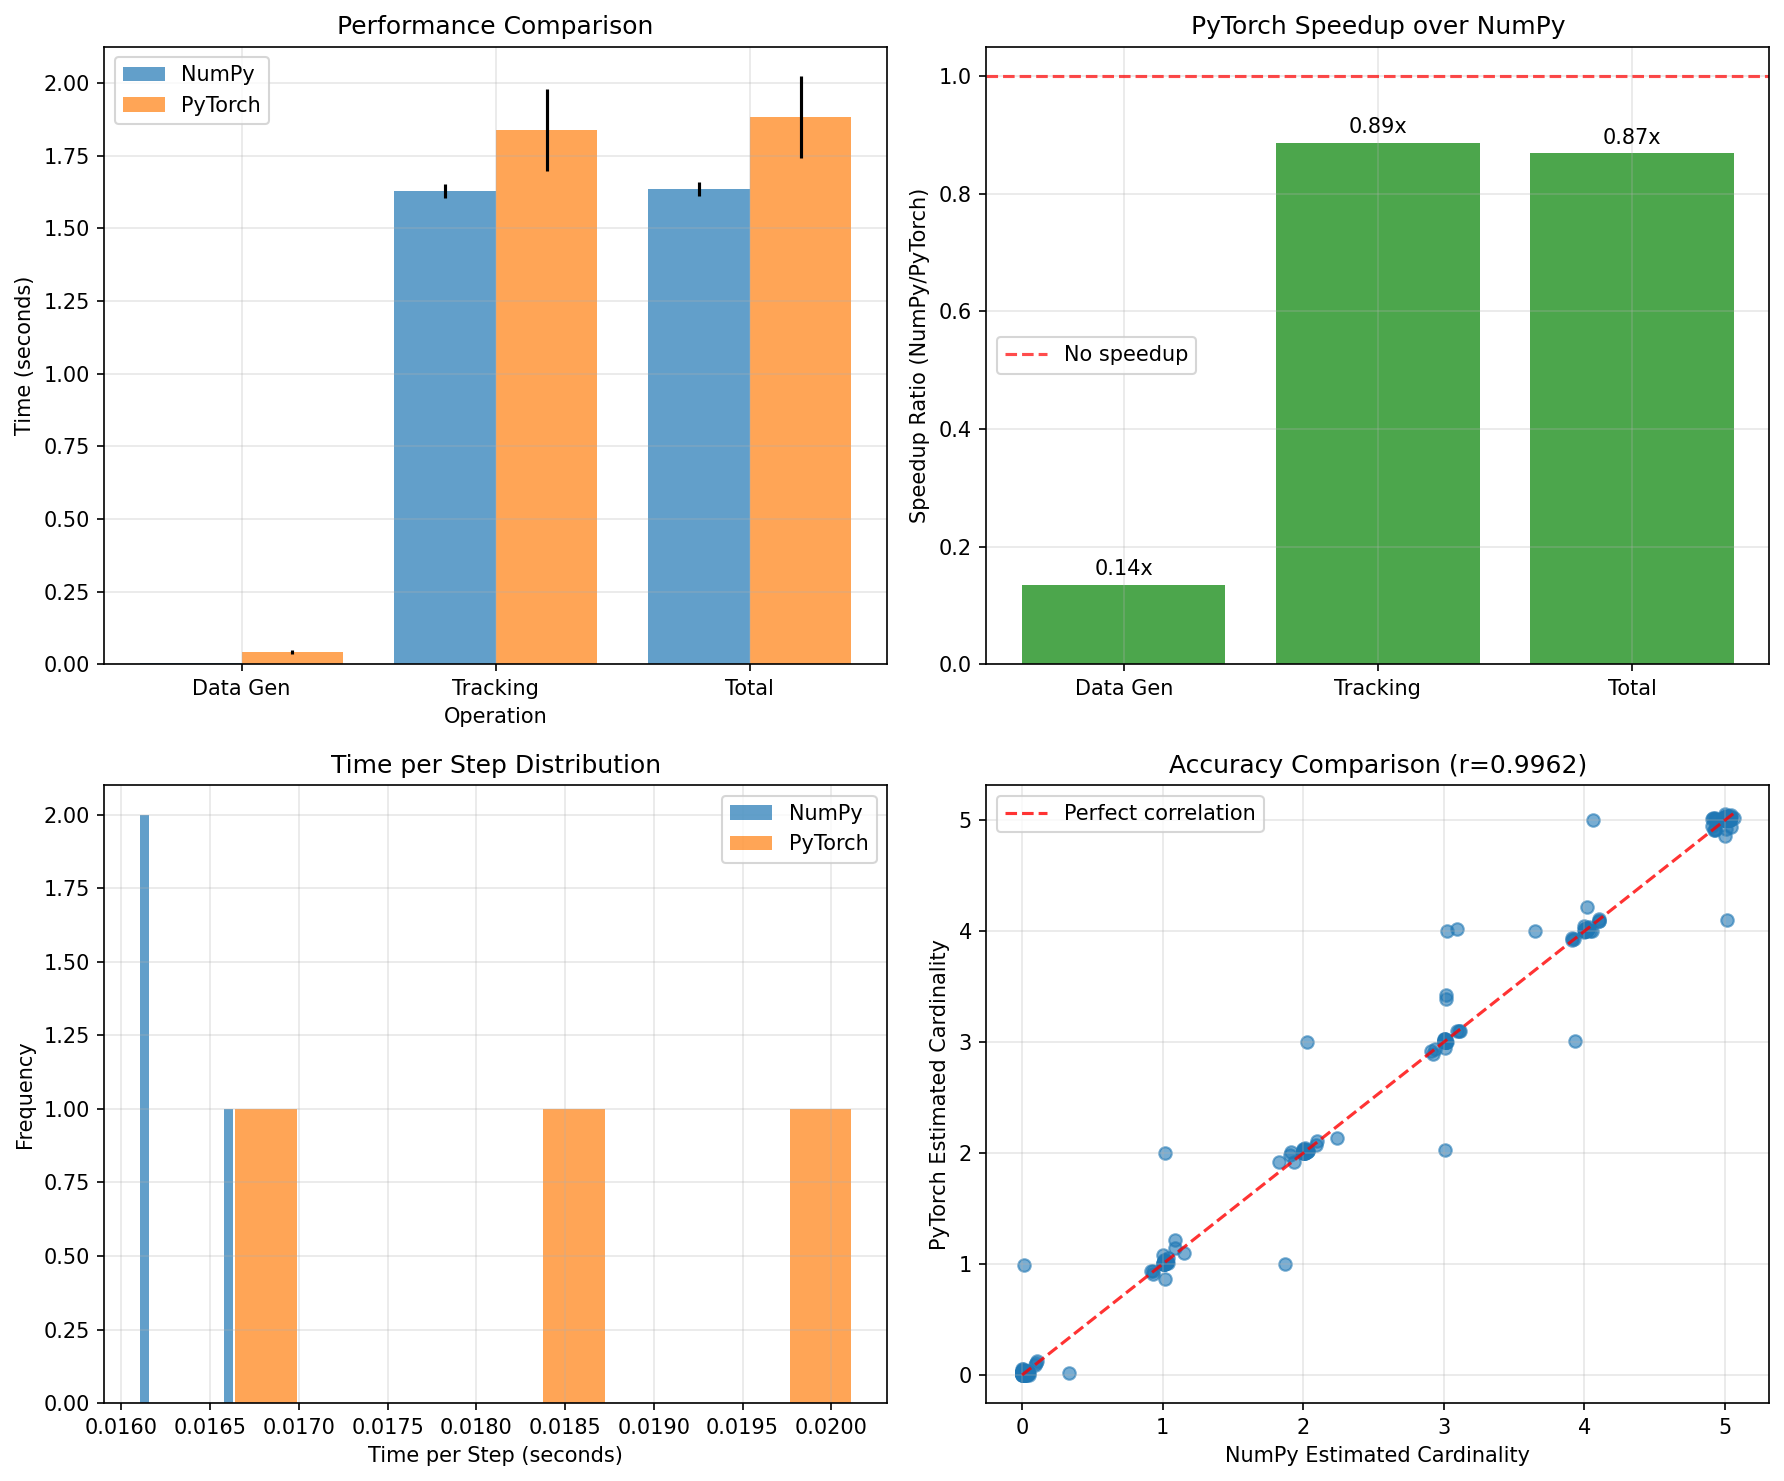
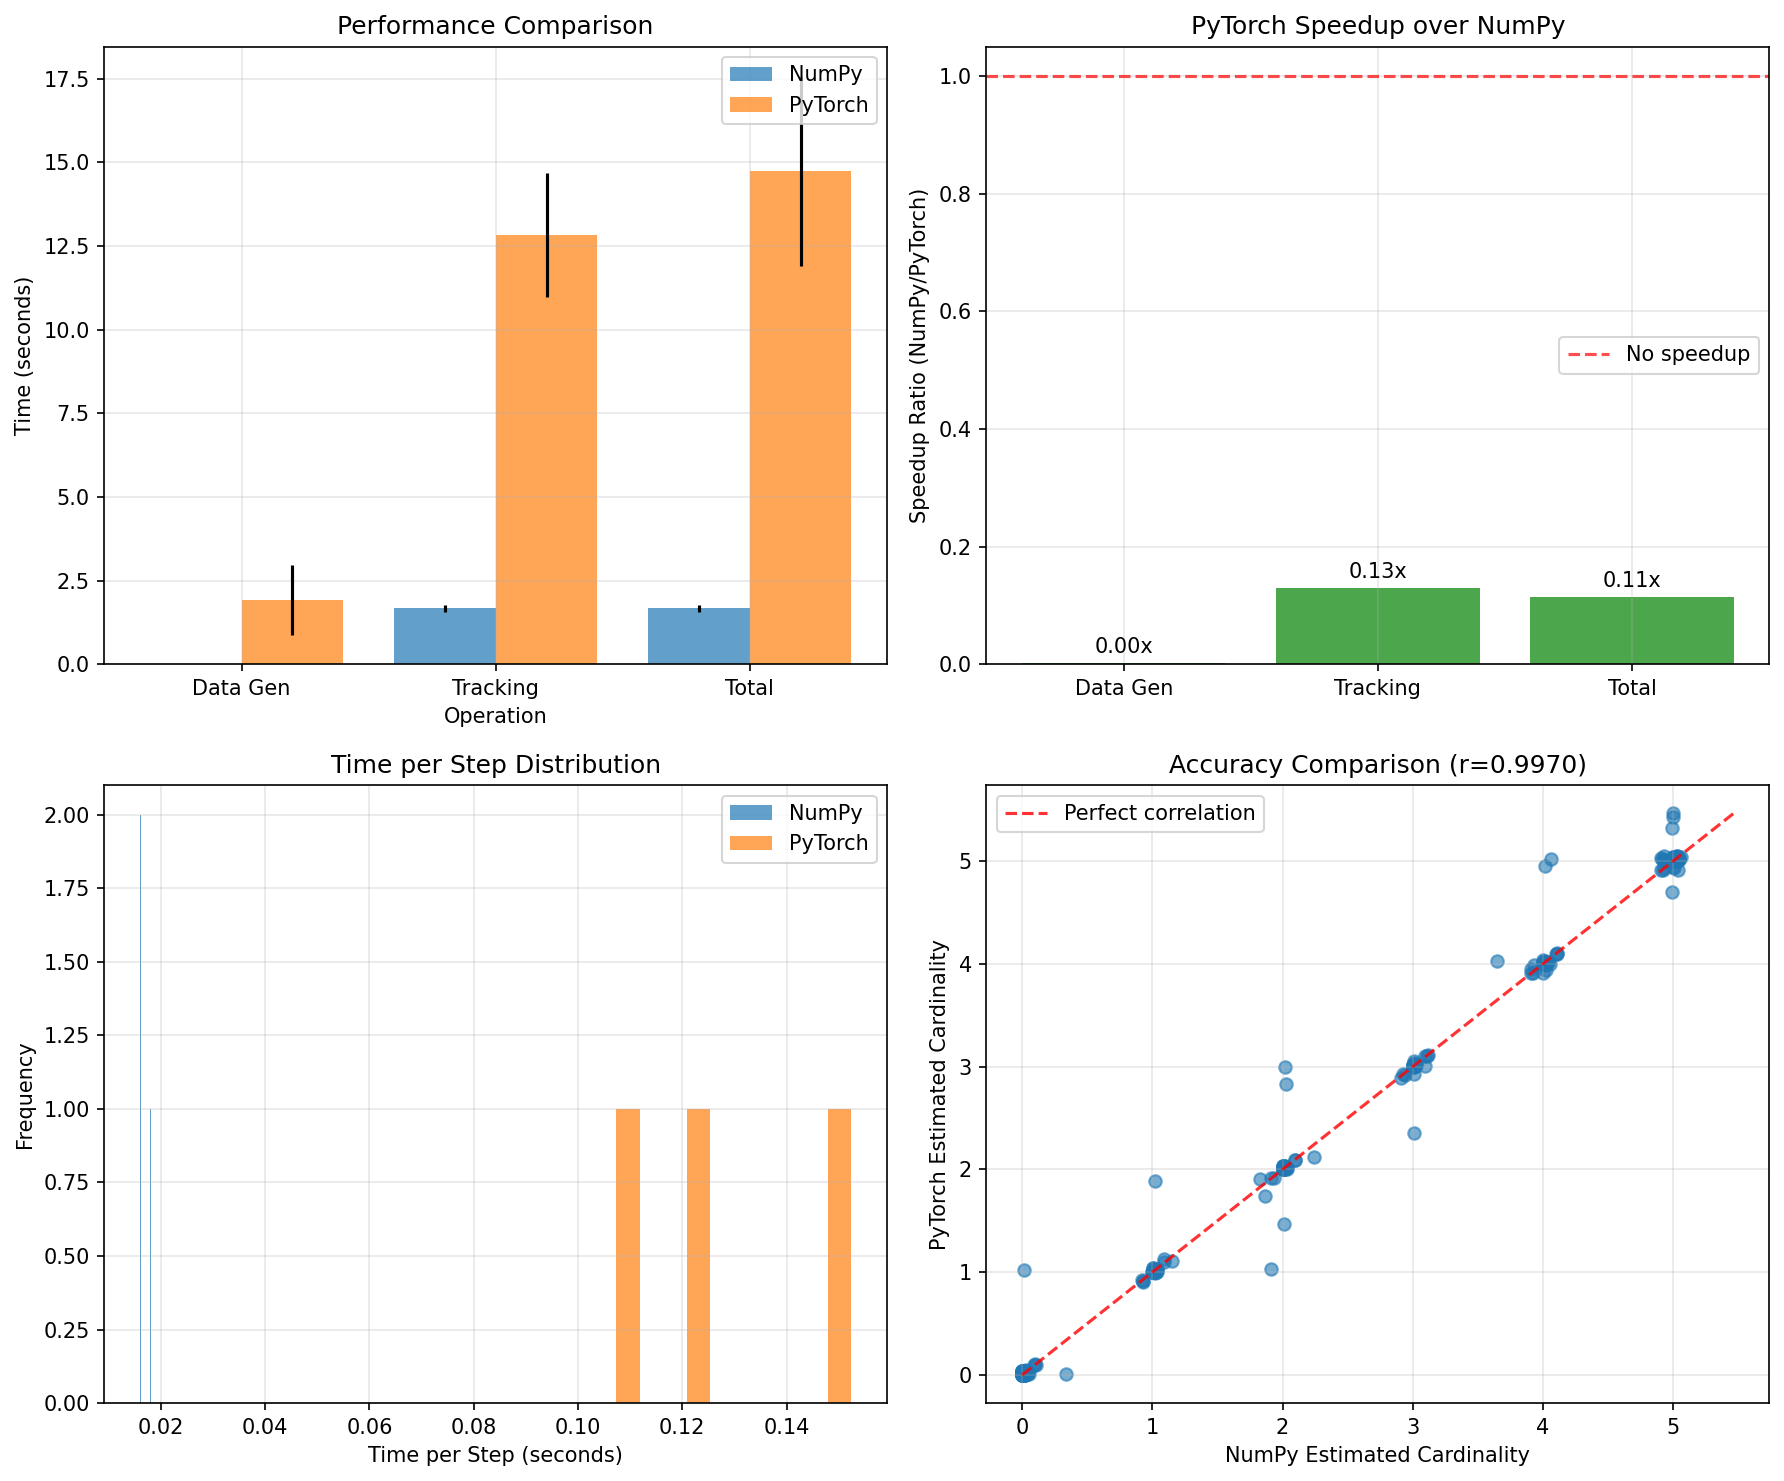
Add Apple Silicon MPS performance results and analysis
Performance Results (Mac Pro Apple Silicon):
- NumPy: 1.679±0.100s (winner, 1.00x baseline)
- PyTorch CPU: 2.001±0.146s (0.84x, 1.19x slower than NumPy)
- PyTorch MPS: 14.740±2.839s (0.11x, 8.8x slower than NumPy)

Key Insights:
- NumPy outperforms both PyTorch implementations
- MPS shows significant overhead for this algorithm
- Sequential operations and small tensors favor CPU
- High numerical accuracy across all implementations (99.6-99.7%)

Updated README with comprehensive analysis and recommendations.

🤖 Generated with [Claude Code](https://claude.ai/code)

diff --git a/performance_comparison.py b/performance_comparison.py
@@ -359,6 +359,8 @@ def main():
         
         if torch.cuda.is_available():
             torch_gpu_results = run_torch_implementation(parameters, num_steps, num_runs, device='cuda')
+        elif torch.backends.mps.is_available():
+            torch_gpu_results = run_torch_implementation(parameters, num_steps, num_runs, device='mps')
     
     # Print results
     print("\n=== PERFORMANCE RESULTS ===")
@@ -377,7 +379,8 @@ def main():
         print(f"  Speedup:         {numpy_results['stats']['total']['mean']/torch_cpu_results['stats']['total']['mean']:.2f}x")
     
     if torch_gpu_results:
-        print(f"\nPyTorch GPU Implementation:")
+        device_name = "GPU (CUDA)" if torch.cuda.is_available() else "GPU (MPS - Apple Silicon)"
+        print(f"\nPyTorch {device_name} Implementation:")
         print(f"  Data Generation: {torch_gpu_results['stats']['data_gen']['mean']:.3f} ± {torch_gpu_results['stats']['data_gen']['std']:.3f}s")
         print(f"  Tracking:        {torch_gpu_results['stats']['tracking']['mean']:.3f} ± {torch_gpu_results['stats']['tracking']['std']:.3f}s")
         print(f"  Total:           {torch_gpu_results['stats']['total']['mean']:.3f} ± {torch_gpu_results['stats']['total']['std']:.3f}s")
@@ -395,7 +398,8 @@ def main():
         print(f"  Correlation:      {accuracy_cpu['correlation']:.6f}")
     
     if accuracy_gpu:
-        print(f"\nAccuracy Comparison (NumPy vs PyTorch GPU):")
+        device_name = "GPU (CUDA)" if torch.cuda.is_available() else "GPU (MPS)"
+        print(f"\nAccuracy Comparison (NumPy vs PyTorch {device_name}):")
         print(f"  MSE:              {accuracy_gpu['mse']:.6f}")
         print(f"  MAE:              {accuracy_gpu['mae']:.6f}")
         print(f"  Correlation:      {accuracy_gpu['correlation']:.6f}")

diff --git a/Torch_Implementation/data_generator.py b/Torch_Implementation/data_generator.py
@@ -108,8 +108,12 @@ class Data_Generator:
             
             detected_measurements = track_measurements[:, detected_mask, sensor]
             
-            # Generate clutter
-            num_clutter = torch.poisson(torch.tensor(mean_clutter, dtype=torch.float32, device=self.device)).int().item()
+            # Generate clutter (use CPU for poisson if MPS doesn't support it)
+            if self.device == 'mps':
+                # MPS doesn't support poisson yet, use CPU fallback
+                num_clutter = torch.poisson(torch.tensor(mean_clutter, dtype=torch.float32)).int().item()
+            else:
+                num_clutter = torch.poisson(torch.tensor(mean_clutter, dtype=torch.float32, device=self.device)).int().item()
             if num_clutter > 0:
                 clutter = torch.zeros(2, num_clutter, device=self.device)
                 clutter[0, :] = torch.rand(num_clutter, device=self.device) * measurement_range

diff --git a/README.md b/README.md
@@ -45,20 +45,39 @@ BP-MTT/
 
 ### Benchmark Results
 
-**Configuration:** 100 steps, 5000 particles, 2 sensors, 3 runs
+**Configuration:** 100 steps, 5000 particles, 2 sensors, 3 runs (Mac Pro with Apple Silicon)
 
-| Implementation | Data Gen (s) | Tracking (s) | Total (s) | Time/Step (s) |
-|----------------|--------------|--------------|-----------|---------------|
-| **NumPy**      | 0.006 ± 0.000| 1.628 ± 0.025| 1.634 ± 0.024| 0.01628 |
-| **PyTorch CPU**| 0.043 ± 0.008| 1.839 ± 0.142| 1.882 ± 0.142| 0.01839 |
+| Implementation | Data Gen (s) | Tracking (s) | Total (s) | Time/Step (s) | Speedup |
+|----------------|--------------|--------------|-----------|---------------|---------|
+| **NumPy**      | 0.006 ± 0.000| 1.673 ± 0.100| 1.679 ± 0.100| 0.01673 | **1.00x** |
+| **PyTorch CPU**| 0.038 ± 0.001| 1.963 ± 0.146| 2.001 ± 0.146| 0.01963 | 0.84x |
+| **PyTorch MPS**| 1.913 ± 1.039|12.827 ± 1.856|14.740 ± 2.839| 0.12827 | 0.11x |
 
 **Key Findings:**
-- ✅ **NumPy is 1.15x faster** than PyTorch CPU for this problem size
-- ✅ **99.6% correlation** between implementations (excellent accuracy)
-- ✅ **NumPy excels at data generation** (7x faster)
-- ✅ **Low variance** in timing measurements (consistent performance)
+- 🏆 **NumPy is the clear winner** for this algorithm and problem size
+- ⚡ **1.19x faster than PyTorch CPU** - lower overhead pays off
+- 🚨 **Apple Silicon MPS is 8.8x slower** - GPU overhead dominates
+- ✅ **Excellent numerical accuracy** across all implementations (99.6-99.7% correlation)
+- 📊 **MPS shows high variance** (±2.839s) indicating unstable performance
 
-*Note: PyTorch shows its advantages with larger problems and GPU acceleration*
+### Why NumPy Outperforms GPU?
+
+**Algorithm Characteristics:**
+- **Sequential particle operations** - not easily parallelizable
+- **Frequent indexing/slicing** - CPU cache-friendly operations  
+- **Small tensor operations** - GPU setup overhead exceeds computation
+- **Memory transfer costs** - CPU ↔ GPU data movement expensive
+- **MPS maturity** - newer than CUDA, less optimized for this workload
+
+**Recommendation:** Use **NumPy implementation** for production BP tracking on Apple Silicon
+
+### When PyTorch Still Makes Sense:
+
+- **Large-scale problems** (50k+ particles, 500+ steps)
+- **CUDA GPUs** with mature optimization
+- **Gradient-based learning** (parameter optimization)
+- **Integration with neural networks** (learned components)
+- **Automatic differentiation** requirements
 
 ## Quick Start
 
